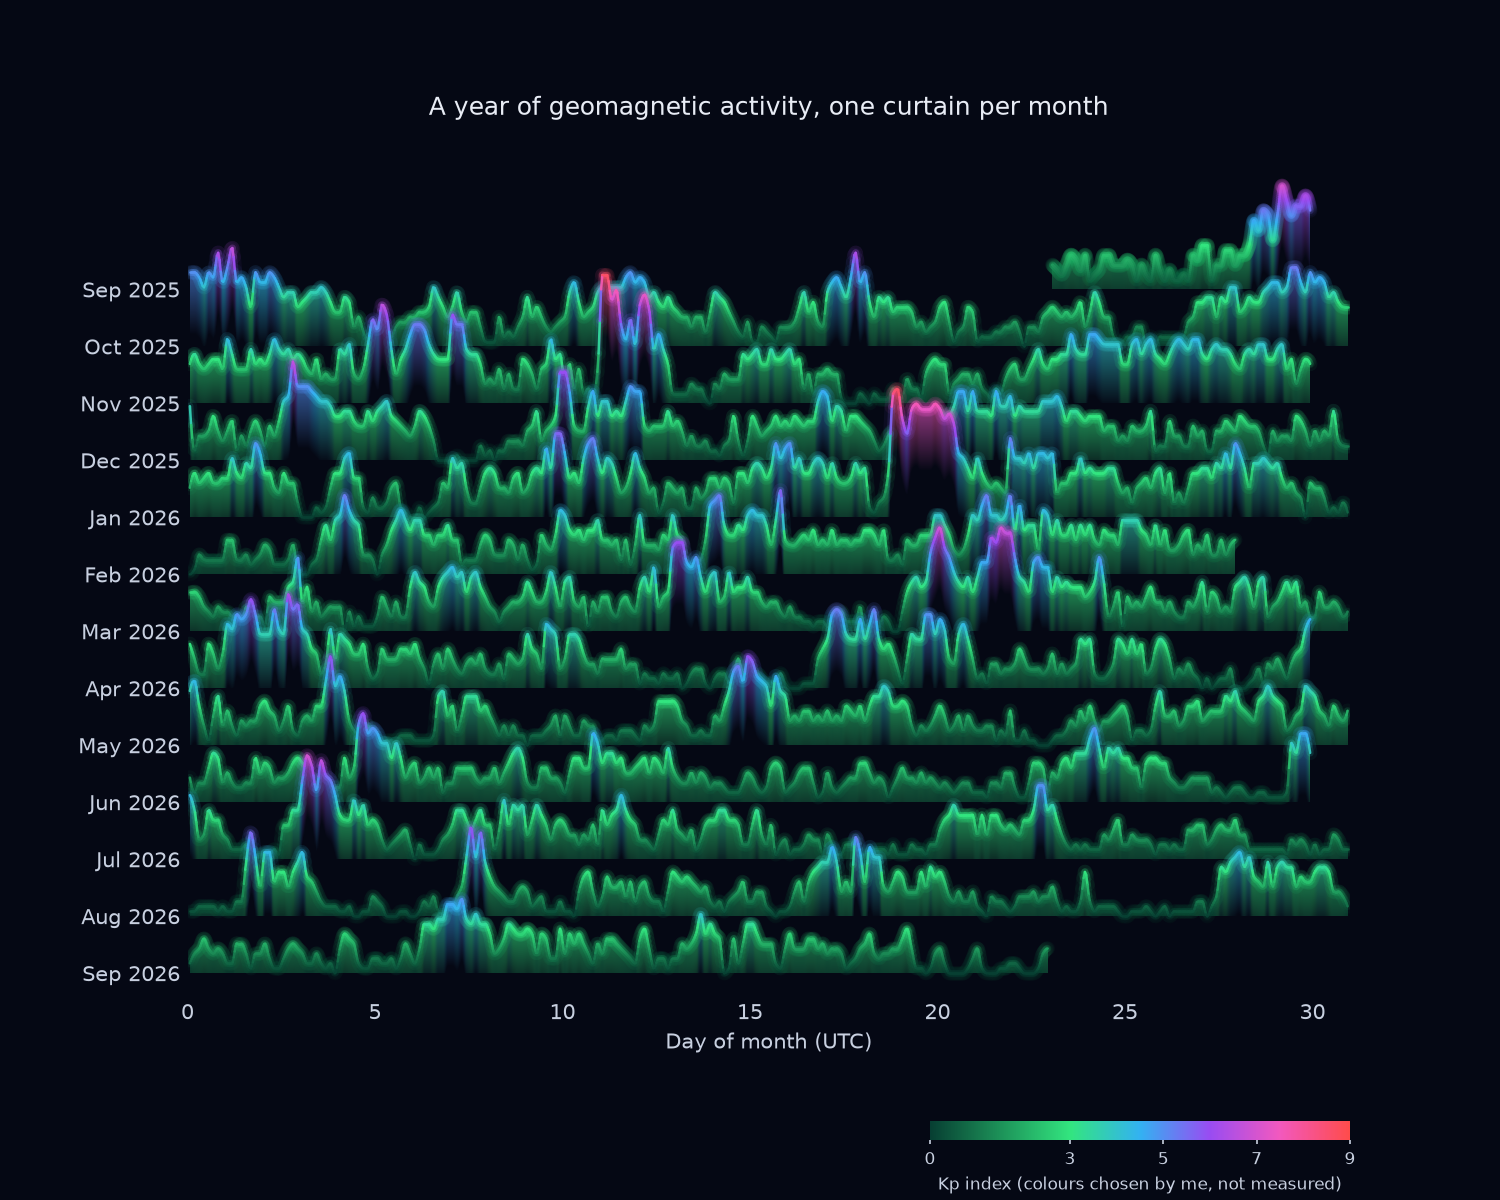
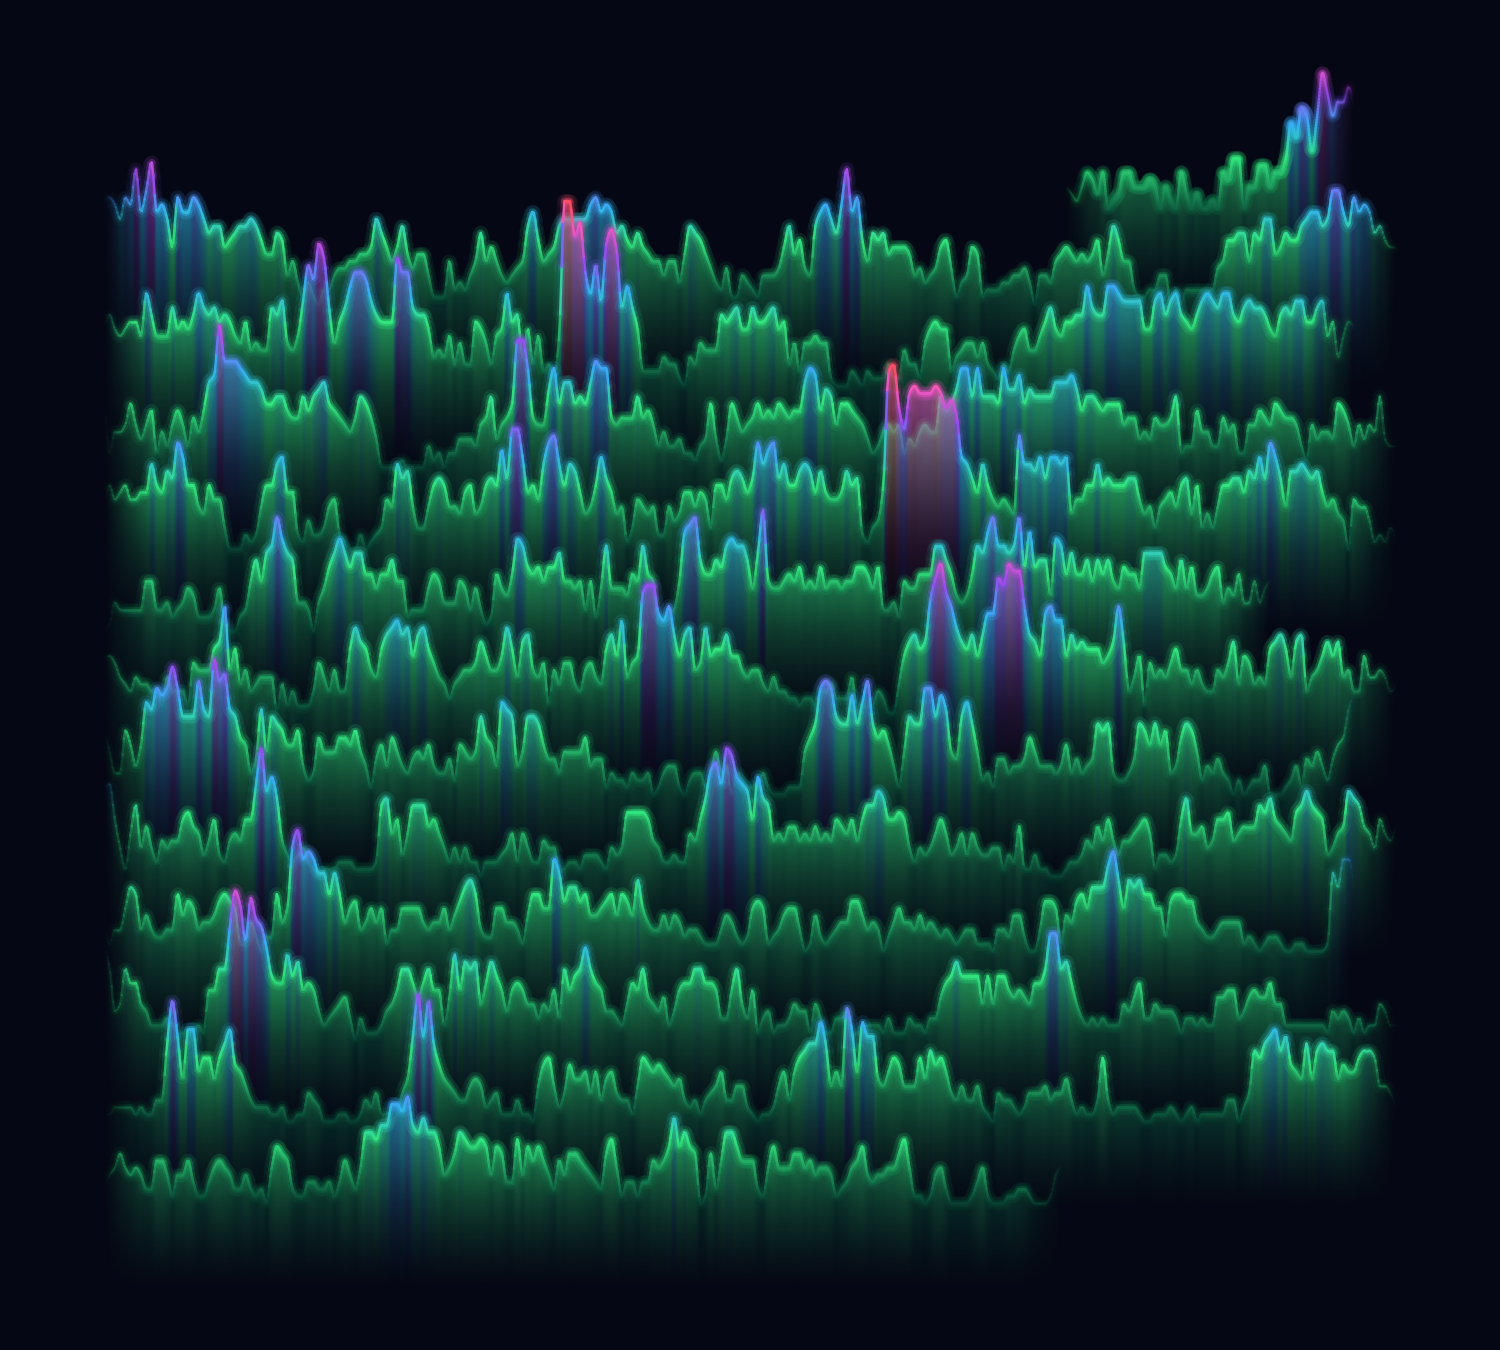
twelve ribbons, one wave per month: too busy

diff --git a/plot.py b/plot.py
@@ -13,9 +13,8 @@ from scipy.interpolate import PchipInterpolator
 
 HEIGHT = 0.26      # how tall one Kp unit is. Lower it if the curtains feel crowded.
 FADE = 1.1         # how far the glow falls below each curve (bigger = fuller curtain)
+END_FADE = 1.2     # how many days each ribbon takes to fade in and out
 BACKGROUND = "#050814"
-MONTH_NAMES = ["Jan", "Feb", "Mar", "Apr", "May", "Jun",
-               "Jul", "Aug", "Sep", "Oct", "Nov", "Dec"]
 
 # Kp value -> colour. Between these points the colour blends smoothly.
 # These colours are my choice. The data itself has no colour in it.
@@ -40,11 +39,6 @@ def kp_to_colour(kp):
             return tuple(low_col[j] + (high_col[j] - low_col[j]) * t
                          for j in range(3))
     return STOPS[-1][1]
-
-
-def month_label(key):
-    # "2025-09" -> "Sep 2025"
-    return MONTH_NAMES[int(key[5:7]) - 1] + " " + key[:4]
 
 
 def smooth_curve(xs, kps):
@@ -79,9 +73,11 @@ for i in range(len(kps)):
     kps_by_month[key].append(kps[i])
 
 max_height = max(kps) * HEIGHT
-fig, ax = plt.subplots(figsize=(10, 8))
+fig = plt.figure(figsize=(10, 9))
 fig.patch.set_facecolor(BACKGROUND)
+ax = fig.add_axes([0.04, 0.03, 0.92, 0.94])
 ax.set_facecolor(BACKGROUND)
+ax.axis("off")
 
 # oldest month at the top; each later month is drawn in front of the one above
 for m in range(len(months)):
@@ -94,67 +90,44 @@ for m in range(len(months)):
     for value in kp:
         colours.append(kp_to_colour(value))
 
-    # 1. hide whatever is behind this curtain
-    ax.fill_between(x, base - 1.5, top, color=BACKGROUND, linewidth=0,
-                    zorder=3 * m)
+    # each ribbon fades in and out at its two ends instead of stopping dead
+    ends = np.clip((x - x[0]) / END_FADE, 0, 1) * np.clip((x[-1] - x) / END_FADE, 0, 1)
 
-    # 2. the soft curtain of light, brightest at the curve and fading downward
-    rows = 120
-    heights = np.linspace(0, max_height, rows)
+    # 1. the soft curtain of light, brightest at the curve and fading downward
+    #    (it carries on below the baseline, so nothing ends in a flat edge)
+    rows = 160
+    heights = np.linspace(-FADE, max_height, rows)
     glow = np.zeros((rows, len(x), 4))
     for i in range(len(x)):
         depth = kp[i] * HEIGHT - heights
-        alpha = np.clip(1 - depth / FADE, 0, 1) * (depth >= 0) * 0.6
+        # taller peaks get a longer glow, so storms hang all the way down
+        glow_length = kp[i] * HEIGHT + FADE
+        alpha = np.clip(1 - depth / glow_length, 0, 1) ** 1.5
+        alpha = alpha * (depth >= 0) * 0.55 * ends[i]
         glow[:, i, 0] = colours[i][0]
         glow[:, i, 1] = colours[i][1]
         glow[:, i, 2] = colours[i][2]
         glow[:, i, 3] = alpha
-    ax.imshow(glow, extent=[x[0], x[-1], base, base + max_height],
+    ax.imshow(glow, extent=[x[0], x[-1], base - FADE, base + max_height],
               origin="lower", aspect="auto", interpolation="bilinear",
               zorder=3 * m + 1)
 
-    # 3. the glowing edge: three passes, wide and faint to thin and bright
+    # 2. the glowing edge: three passes, wide and faint to thin and bright
     points = np.array([x, top]).T.reshape(-1, 1, 2)
     segments = np.concatenate([points[:-1], points[1:]], axis=1)
-    for width, alpha in [(7, 0.06), (3.5, 0.15), (1.2, 0.95)]:
-        edge = LineCollection(segments, colors=colours[:-1], linewidths=width,
-                              alpha=alpha, capstyle="round",
-                              zorder=3 * m + 2)
+    for width, strength in [(7, 0.06), (3.5, 0.15), (1.2, 0.95)]:
+        edge_colours = []
+        for i in range(len(x) - 1):
+            r, g, b = colours[i]
+            edge_colours.append((r, g, b, strength * ends[i]))
+        edge = LineCollection(segments, colors=edge_colours, linewidths=width,
+                              capstyle="round", zorder=3 * m + 2)
         ax.add_collection(edge)
 
-ticks = []
-labels = []
-for m in range(len(months)):
-    ticks.append(-m)
-    labels.append(month_label(months[m]))
-ax.set_yticks(ticks)
-ax.set_yticklabels(labels)
-
-ax.set_xlim(0, 31)
-ax.set_ylim(-(len(months) - 1) - 0.4, max_height + 0.3)
-ax.set_xlabel("Day of month (UTC)")
-ax.set_title("A year of geomagnetic activity, one curtain per month",
-             color="#e8ecf5", pad=14)
-ax.tick_params(colors="#c8d0e0", length=0)
-ax.xaxis.label.set_color("#c8d0e0")
-for side in ax.spines:
-    ax.spines[side].set_visible(False)
-
-# a small key: which colour means which Kp
-key_ax = fig.add_axes([0.62, 0.05, 0.28, 0.016])
-strip = np.zeros((1, 200, 3))
-for i in range(200):
-    strip[0, i] = kp_to_colour(9 * i / 199)
-key_ax.imshow(strip, aspect="auto", extent=[0, 9, 0, 1])
-key_ax.set_yticks([])
-key_ax.set_xticks([0, 3, 5, 7, 9])
-key_ax.tick_params(colors="#c8d0e0", labelsize=8, length=2)
-key_ax.set_xlabel("Kp index (colours chosen by me, not measured)",
-                  color="#c8d0e0", fontsize=8)
-for side in key_ax.spines:
-    key_ax.spines[side].set_visible(False)
-
-fig.subplots_adjust(bottom=0.17)
+# just the light: no axes, no labels, no title
+top_limit = max(kps_by_month[months[0]]) * HEIGHT + 0.4
+ax.set_xlim(-1, 32)
+ax.set_ylim(-(len(months) - 1) - FADE - 0.2, top_limit)
 
 os.makedirs("out", exist_ok=True)
 plt.savefig("out/aurora.png", dpi=150, facecolor=BACKGROUND)
